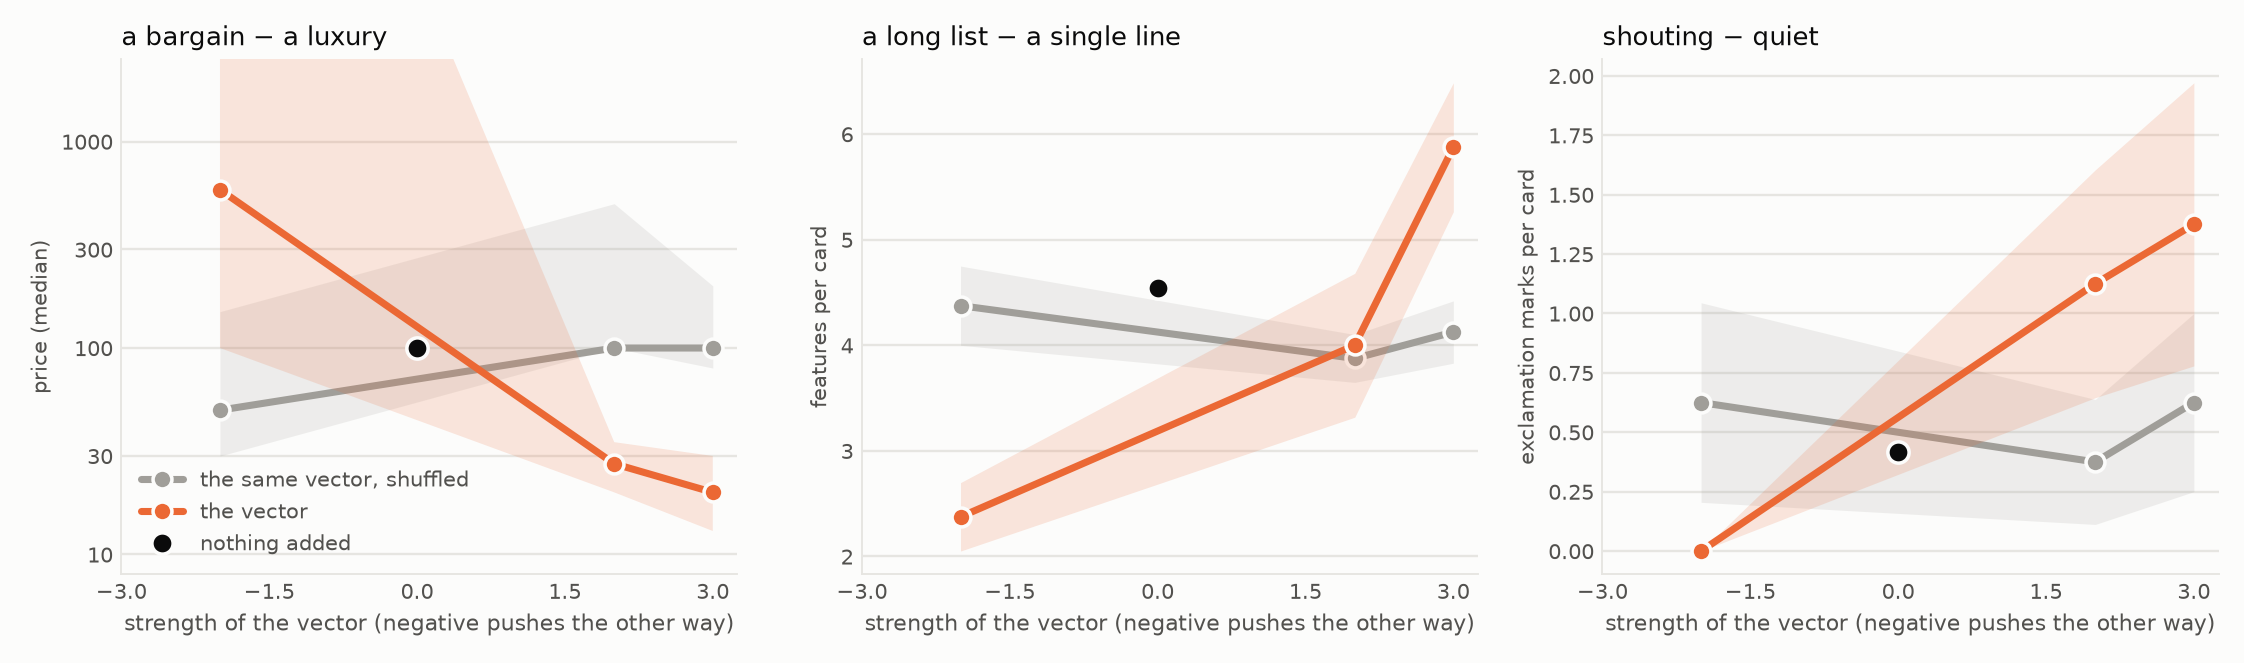
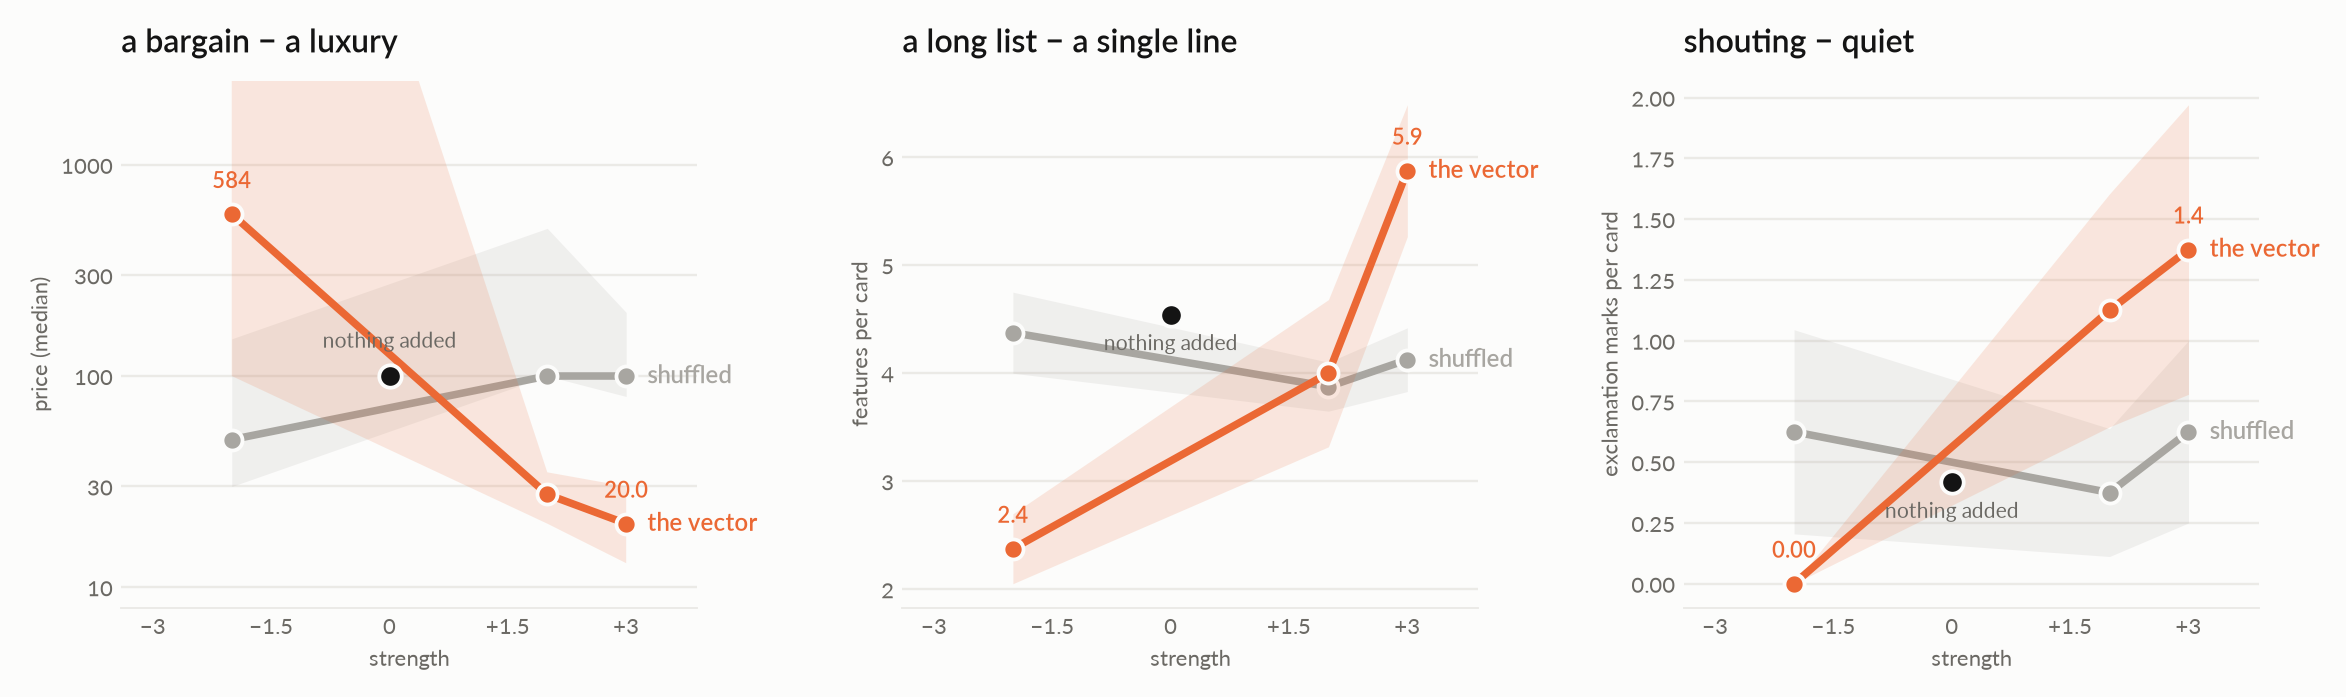
one style for the curves: Lato, names at the line ends, values at the edges

diff --git a/fig/style.py b/fig/style.py
@@ -1,0 +1,113 @@
+"""One look for the curve plots: Lato, a warm surface, the vector in orange
+with a soft band, the shuffled vector in grey, the unsteered point in ink,
+names at the ends of the lines instead of a legend.
+
+    from style import fonts, curves
+"""
+import statistics
+
+import matplotlib.pyplot as plt
+from matplotlib import font_manager
+
+VEC, ROTC, INK, INK2, GRID, SURF = "#eb6834", "#a8a6a1", "#141414", "#6b6964", "#ebeae6", "#fcfcfb"
+LATO = "/usr/share/fonts/truetype/lato/Lato-{}.ttf"
+
+
+def fonts(size=10.5):
+    for w in ("Regular", "Medium", "Semibold", "Bold", "Italic"):
+        try:
+            font_manager.fontManager.addfont(LATO.format(w))
+        except Exception:      # noqa: BLE001 - a missing weight is not a reason to stop
+            pass
+    plt.rcParams.update({"font.family": "Lato", "font.size": size, "axes.unicode_minus": True})
+
+
+def mean_se(v):
+    m = sum(v) / len(v)
+    sd = (sum((x - m) ** 2 for x in v) / max(1, len(v) - 1)) ** 0.5
+    se = sd / len(v) ** 0.5
+    return m, se, se
+
+
+def median_iqr(v):
+    m = statistics.median(v)
+    s = sorted(v)
+    lo, hi = s[len(s) // 4], s[(3 * len(s)) // 4]
+    return m, m - lo, hi - m
+
+
+def _fmt(y):
+    return f"{y:.0f}" if abs(y) >= 20 else (f"{y:.1f}" if abs(y) >= 1 else f"{y:.2f}")
+
+
+def curves(ax, pts, title, ylabel, centre=mean_se, log=False, ylim=None, yticks=None, values=True):
+    """pts: {"real": {x: [v]}, "placebo": {x: [v]}, "base": {0.0: [v]}}."""
+    ends = []
+    for kind, color, label, z in (("placebo", ROTC, "shuffled", 2), ("real", VEC, "the vector", 3)):
+        xs = sorted(pts[kind])
+        if not xs:
+            continue
+        cs = [centre(pts[kind][x]) for x in xs]
+        ys = [m for m, _, _ in cs]
+        ax.fill_between(xs, [m - lo for m, lo, _ in cs], [m + hi for m, _, hi in cs], color=color, alpha=0.15,
+                        linewidth=0, zorder=z)
+        ax.plot(xs, ys, color=color, linewidth=3.2, marker="o", markersize=8.5, markeredgecolor=SURF,
+                markeredgewidth=1.6, zorder=z + 1, solid_capstyle="round", solid_joinstyle="round")
+        ends.append((xs[-1], ys[-1], label, color, kind))
+        if values and kind == "real":
+            for x, y in ((xs[0], ys[0]), (xs[-1], ys[-1])):
+                ax.annotate(_fmt(y), (x, y), xytext=(0, 11), textcoords="offset points", ha="center",
+                            color=VEC, fontsize=9.5, fontweight="semibold", zorder=7)
+    if pts["base"]:
+        m, _, _ = centre(pts["base"][0.0])
+        ax.plot([0], [m], color=INK, marker="o", markersize=9.5, markeredgecolor=SURF, markeredgewidth=1.6,
+                linestyle="none", zorder=6)
+        # the label goes to whichever side of the dot has no line running through it
+        md = ax.transData.transform((0, m))[1]
+        crowd = {"up": 0, "down": 0}
+        for kind in ("real", "placebo"):
+            xs = sorted(pts[kind])
+            if len(xs) < 2 or not (xs[0] <= 0 <= xs[-1]):
+                continue
+            ys = [centre(pts[kind][x])[0] for x in xs]
+            i = max(j for j in range(len(xs) - 1) if xs[j] <= 0)
+            t = (0 - xs[i]) / (xs[i + 1] - xs[i]) if xs[i + 1] != xs[i] else 0
+            yd = ax.transData.transform((0, ys[i] + t * (ys[i + 1] - ys[i])))[1]
+            if 0 < yd - md < 26:
+                crowd["up"] += 1
+            elif 0 < md - yd < 26:
+                crowd["down"] += 1
+        dy = -15 if crowd["down"] <= crowd["up"] else 12
+        ax.annotate("nothing added", (0, m), xytext=(0, dy), textcoords="offset points", ha="center",
+                    color=INK2, fontsize=9, zorder=7)
+    if log:
+        ax.set_yscale("log")
+        ax.minorticks_off()
+    if ylim:
+        ax.set_ylim(*ylim)
+    if yticks:
+        ax.set_yticks(yticks, [str(t) for t in yticks])
+    # names at the right end of each line, pushed apart if they would touch
+    ax.set_xlim(-3.4, 3.9)
+    ends.sort(key=lambda e: e[1])
+    ys_disp = []
+    for x, y, label, color, kind in ends:
+        ys_disp.append(ax.transData.transform((x, y))[1])
+    for i in range(1, len(ys_disp)):
+        if ys_disp[i] - ys_disp[i - 1] < 16:
+            ys_disp[i] = ys_disp[i - 1] + 16
+    for (x, y, label, color, kind), yd in zip(ends, ys_disp):
+        yy = ax.transData.inverted().transform((0, yd))[1]
+        ax.annotate(label, (x, yy), xytext=(9, 0), textcoords="offset points", va="center", ha="left",
+                    color=color, fontsize=10, fontweight="semibold", zorder=8, annotation_clip=False)
+    ax.set_title(title, loc="left", color=INK, fontsize=13.5, fontweight="semibold", pad=12)
+    ax.set_ylabel(ylabel, color=INK2, fontsize=9.5)
+    ax.set_xlabel("strength", color=INK2, fontsize=9.5)
+    ax.set_xticks([-3, -1.5, 0, 1.5, 3], ["−3", "−1.5", "0", "+1.5", "+3"])
+    ax.grid(axis="y", color=GRID, linewidth=1)
+    ax.set_axisbelow(True)
+    for s in ("top", "right", "left"):
+        ax.spines[s].set_visible(False)
+    ax.spines["bottom"].set_color(GRID)
+    ax.tick_params(length=0, colors=INK2, labelsize=9.5)
+    ax.set_facecolor(SURF)

diff --git a/fig/plot_cardof.py b/fig/plot_cardof.py
@@ -10,19 +10,17 @@ median (one card at thirty million would own the mean).
 import glob
 import json
 import pathlib
-import statistics
 import sys
 
 import matplotlib
 matplotlib.use("Agg")
 import matplotlib.pyplot as plt  # noqa: E402
-from matplotlib import font_manager  # noqa: E402
 
 HERE = pathlib.Path(__file__).parent.parent
 sys.path.insert(0, str(HERE))
+sys.path.insert(0, str(HERE / "fig"))
+from style import SURF, curves, fonts, mean_se, median_iqr  # noqa: E402
 from steeropathy import cardof, replyof  # noqa: E402
-
-VEC, ROTC, INK, INK2, GRID, SURF = "#eb6834", "#a09e99", "#0b0b0b", "#52514e", "#e6e5e1", "#fcfcfb"
 PANELS = [  # direction, reading, panel label, y label, median?
     ("cheaper", "price", "a bargain − a luxury", "price (median)", True),
     ("manyfeatures", "features", "a long list − a single line", "features per card", False),
@@ -61,49 +59,11 @@ def series(files, name, what, key="card", read=cardof.read):
     return pts
 
 
-def centre(v, median):
-    if median:
-        m = statistics.median(v)
-        s = sorted(v)
-        lo, hi = s[len(s) // 4], s[(3 * len(s)) // 4]     # the middle half
-        return m, m - lo, hi - m
-    m = sum(v) / len(v)
-    sd = (sum((x - m) ** 2 for x in v) / max(1, len(v) - 1)) ** 0.5
-    se = sd / len(v) ** 0.5
-    return m, se, se
-
-
 def panel(ax, pts, label, ylabel, median):
-    for kind, color, lab, z in (("placebo", ROTC, "the same vector, shuffled", 2), ("real", VEC, "the vector", 3)):
-        xs = sorted(pts[kind])
-        if not xs:
-            continue
-        cs = [centre(pts[kind][x], median) for x in xs]
-        ax.fill_between(xs, [m - lo for m, lo, _ in cs], [m + hi for m, _, hi in cs], color=color, alpha=0.16,
-                        linewidth=0, zorder=z)
-        ax.plot(xs, [m for m, _, _ in cs], color=color, linewidth=3, marker="o", markersize=8,
-                markeredgecolor=SURF, markeredgewidth=1.5, label=lab, zorder=z + 1, solid_capstyle="round")
-    if pts["base"]:
-        m, _, _ = centre(pts["base"][0.0], median)
-        ax.plot([0], [m], color=INK, marker="o", markersize=9, markeredgecolor=SURF, markeredgewidth=1.5,
-                linestyle="none", label="nothing added", zorder=6)
     if median:
-        ax.set_yscale("log")
-        ax.set_ylim(8, 2500)     # the middle half of the cards; one card at −2 asks thirty million
-        ax.set_yticks([10, 30, 100, 300, 1000], ["10", "30", "100", "300", "1000"])
-        ax.minorticks_off()
-    ax.set_title(label, loc="left", color=INK, fontsize=11)
-    ax.set_ylabel(ylabel, color=INK2, fontsize=9)
-    ax.set_xlabel("strength of the vector (negative pushes the other way)", color=INK2, fontsize=9.5)
-    ax.set_xticks([-3, -1.5, 0, 1.5, 3])
-    ax.grid(axis="y", color=GRID, linewidth=1)
-    ax.set_axisbelow(True)
-    for s in ("top", "right"):
-        ax.spines[s].set_visible(False)
-    for s in ("left", "bottom"):
-        ax.spines[s].set_color(GRID)
-    ax.tick_params(length=0, colors=INK2, labelsize=9)
-    ax.set_facecolor(SURF)
+        curves(ax, pts, label, ylabel, centre=median_iqr, log=True, ylim=(8, 2500), yticks=[10, 30, 100, 300, 1000])
+    else:
+        curves(ax, pts, label, ylabel, centre=mean_se)
 
 
 def main():
@@ -115,20 +75,18 @@ def main():
     ap.add_argument("--out", default=None)
     a = ap.parse_args()
     bench = BENCH[a.bench]
-    font_manager.fontManager.addfont("/usr/share/fonts/truetype/dejavu/DejaVuSans.ttf")
-    plt.rcParams.update({"font.family": "DejaVu Sans", "font.size": 10})
+    fonts()
     files = sorted(glob.glob(str(HERE / "docs" / "runs" / (a.glob or bench["glob"]))))
     live = bench["panels"] if not a.only else [p for p in bench["panels"] if p[0] in a.only.split(",")]
     cols = min(3, len(live)) or 1
     rows = (len(live) + cols - 1) // cols
-    fig, axes = plt.subplots(rows, cols, figsize=(4.4 * cols, 3.9 * rows), facecolor=SURF)
+    fig, axes = plt.subplots(rows, cols, figsize=(4.6 * cols, 4.1 * rows), facecolor=SURF)
     axes = list(axes.flat) if hasattr(axes, "flat") else [axes]
     for ax, (name, what, label, ylabel, median) in zip(axes, live):
         panel(ax, series(files, name, what, bench["key"], bench["read"]), label, ylabel, median)
     for ax in axes[len(live):]:
         ax.axis("off")
-    axes[0].legend(loc="best", frameon=False, fontsize=9, labelcolor=INK2)
-    fig.tight_layout(h_pad=1.5, w_pad=1.5)
+    fig.tight_layout(h_pad=1.6, w_pad=2.4)
     out = pathlib.Path(a.out) if a.out else HERE / "docs" / bench["out"]
     fig.savefig(out, dpi=170, facecolor=SURF)
     print(out)

diff --git a/fig/plot_sliders.py b/fig/plot_sliders.py
@@ -13,14 +13,14 @@ import sys
 import matplotlib
 matplotlib.use("Agg")
 import matplotlib.pyplot as plt  # noqa: E402
-from matplotlib import font_manager  # noqa: E402
 
 HERE = pathlib.Path(__file__).parent.parent
 sys.path.insert(0, str(HERE))
+sys.path.insert(0, str(HERE / "fig"))
+from style import SURF, curves, fonts  # noqa: E402
 from steeropathy.secondhand import kinds_of  # noqa: E402
 from steeropathy.worldof import READERS  # noqa: E402
 
-VEC, ROTC, INK, INK2, GRID, SURF = "#eb6834", "#a09e99", "#0b0b0b", "#52514e", "#e6e5e1", "#fcfcfb"
 PANELS = [  # (glob, direction, kind or None, title, y label)
     ("worldof-13-aorus-1.5b-knob-s*.json", "manytrees", "tree", "many trees − one tree", "trees per world"),
     ("worldof-13-aorus-1.5b-knob-s*.json", "crowded", None, "crowded − empty", "things per world"),
@@ -62,36 +62,8 @@ def series(files, name, kind):
     return pts
 
 
-def mean_se(v):
-    m = sum(v) / len(v)
-    sd = (sum((x - m) ** 2 for x in v) / max(1, len(v) - 1)) ** 0.5
-    return m, sd / len(v) ** 0.5
-
-
 def panel(ax, pts, title, ylabel):
-    for kind, color, label, z in (("placebo", ROTC, "the same vector, shuffled", 2), ("real", VEC, "the vector", 3)):
-        xs = sorted(pts[kind])
-        if not xs:
-            continue
-        ms = [mean_se(pts[kind][x]) for x in xs]
-        ax.fill_between(xs, [m - s for m, s in ms], [m + s for m, s in ms], color=color, alpha=0.16, linewidth=0, zorder=z)
-        ax.plot(xs, [m for m, _ in ms], color=color, linewidth=3, marker="o", markersize=8,
-                markeredgecolor=SURF, markeredgewidth=1.5, label=label, zorder=z + 1, solid_capstyle="round")
-    if pts["base"]:
-        m, s = mean_se(pts["base"][0.0])
-        ax.plot([0], [m], color=INK, marker="o", markersize=9, markeredgecolor=SURF, markeredgewidth=1.5,
-                linestyle="none", label="nothing added", zorder=6)
-    ax.set_title(title, loc="left", color=INK, fontsize=11)
-    ax.set_ylabel(ylabel, color=INK2, fontsize=9)
-    ax.set_xticks([-3, -1.5, 0, 1.5, 3])
-    ax.grid(axis="y", color=GRID, linewidth=1)
-    ax.set_axisbelow(True)
-    for s in ("top", "right"):
-        ax.spines[s].set_visible(False)
-    for s in ("left", "bottom"):
-        ax.spines[s].set_color(GRID)
-    ax.tick_params(length=0, colors=INK2, labelsize=9)
-    ax.set_facecolor(SURF)
+    curves(ax, pts, title, ylabel)
 
 
 def main():
@@ -101,28 +73,21 @@ def main():
     ap.add_argument("--out", default=None)
     ap.add_argument("--title", default="The sliders")
     a = ap.parse_args()
-    font_manager.fontManager.addfont("/usr/share/fonts/truetype/dejavu/DejaVuSans.ttf")
-    plt.rcParams.update({"font.family": "DejaVu Sans", "font.size": 11 if a.only else 10})
+    fonts()
     live = [(g, n, k, t, y) for g, n, k, t, y in PANELS if glob.glob(str(HERE / "docs" / "runs" / g))]
     if a.only:
         keep = a.only.split(",")
         live = [x for x in live if x[1] in keep]
     cols = min(3, len(live)) or 1
     rows = (len(live) + cols - 1) // cols
-    size = (7.5, 4.6) if len(live) == 1 else ((12.5, 4.6) if len(live) == 2 else (4.2 * cols, 3.4 * rows + 0.3))
+    size = (7.5, 4.8) if len(live) == 1 else ((12.5, 4.8) if len(live) == 2 else (4.6 * cols, 3.9 * rows + 0.3))
     fig, axes = plt.subplots(rows, cols, figsize=size, facecolor=SURF)
     axes = list(axes.flat) if hasattr(axes, "flat") else [axes]
     for ax, (g, n, k, t, y) in zip(axes, live):
         panel(ax, series(sorted(glob.glob(str(HERE / "docs" / "runs" / g))), n, k), t, y)
     for ax in axes[len(live):]:
         ax.axis("off")
-    if len(live) > 2:
-        axes[0].legend(loc="upper left", frameon=False, fontsize=8.5, labelcolor=INK2)
-    for ax in axes[:len(live)]:
-        ax.set_xlabel("strength of the vector (negative pushes the other way)", color=INK2, fontsize=9.5)
-    if len(live) <= 3:
-        axes[0].legend(loc="best", frameon=False, fontsize=9.5, labelcolor=INK2)
-    fig.tight_layout(h_pad=1.2)
+    fig.tight_layout(h_pad=1.6, w_pad=2.4)
     out = pathlib.Path(a.out) if a.out else HERE / "docs" / "worldof-sliders.png"
     fig.savefig(out, dpi=170, facecolor=SURF)
     print(out)

diff --git a/fig/render_replyof.py b/fig/render_replyof.py
@@ -14,8 +14,8 @@ import tempfile
 from PIL import Image, ImageDraw, ImageFont
 
 HERE = pathlib.Path(__file__).parent.parent
-FONT = "/usr/share/fonts/truetype/dejavu/DejaVuSans.ttf"
-FONT_B = "/usr/share/fonts/truetype/dejavu/DejaVuSans-Bold.ttf"
+FONT = "/usr/share/fonts/truetype/lato/Lato-Regular.ttf"
+FONT_B = "/usr/share/fonts/truetype/lato/Lato-Semibold.ttf"
 SURF, INK, INK2 = (252, 252, 251), (11, 11, 11), (82, 81, 78)
 CW, CH, PAD = 460, 420, 14
 
@@ -27,7 +27,7 @@ def reply_html(r, user):
     urg = r.get("urgency")
     urg = "" if urg is None or urg != urg else f"<span class='urg u{int(round(urg))}'>urgency {int(round(urg))}</span>"
     return f"""<!doctype html><meta charset="utf-8"><style>
-    body{{margin:0;background:#f3f3f1;font-family:'DejaVu Sans',sans-serif;font-size:13px;color:#111}}
+    body{{margin:0;background:#f3f3f1;font-family:Lato,'DejaVu Sans',sans-serif;font-size:13px;color:#111}}
     .wrap{{width:{CW - 32}px;height:{CH - 32}px;margin:16px;box-sizing:border-box;overflow:hidden}}
     .user{{background:#dfe7ff;border-radius:14px 14px 2px 14px;padding:8px 12px;margin:0 0 8px 80px;font-size:12px}}
     .bot{{background:#fff;border-radius:14px 14px 14px 2px;padding:10px 12px;margin-right:40px;box-shadow:0 1px 4px rgba(0,0,0,.08);position:relative}}

diff --git a/fig/render_cardof.py b/fig/render_cardof.py
@@ -14,8 +14,8 @@ import tempfile
 from PIL import Image, ImageDraw, ImageFont
 
 HERE = pathlib.Path(__file__).parent.parent
-FONT = "/usr/share/fonts/truetype/dejavu/DejaVuSans.ttf"
-FONT_B = "/usr/share/fonts/truetype/dejavu/DejaVuSans-Bold.ttf"
+FONT = "/usr/share/fonts/truetype/lato/Lato-Regular.ttf"
+FONT_B = "/usr/share/fonts/truetype/lato/Lato-Semibold.ttf"
 SURF, INK, INK2 = (252, 252, 251), (11, 11, 11), (82, 81, 78)
 CW, CH, PAD = 460, 360, 14
 
@@ -33,7 +33,7 @@ def card_html(c):
     price = c.get("price")
     price = "" if price is None or price != price else (f"{price:,.2f}".rstrip("0").rstrip(".") if price < 1000 else f"{price:,.0f}")
     return f"""<!doctype html><meta charset="utf-8"><style>
-    body{{margin:0;background:#fcfcfb;font-family:'DejaVu Sans',sans-serif}}
+    body{{margin:0;background:#fcfcfb;font-family:Lato,'DejaVu Sans',sans-serif}}
     .card{{width:{CW - 40}px;height:{CH - 40}px;margin:20px;box-sizing:border-box;padding:22px 24px;border-radius:14px;
       background:{theme};color:{ink};box-shadow:0 2px 12px rgba(0,0,0,.12);display:flex;flex-direction:column;overflow:hidden}}
     h1{{margin:0;font-size:22px;line-height:1.15}} .tag{{margin:6px 0 10px;font-size:14px;opacity:.85}}

diff --git a/fig/plot_directions.py b/fig/plot_directions.py
@@ -14,7 +14,6 @@ import sys
 import matplotlib
 matplotlib.use("Agg")
 import matplotlib.pyplot as plt  # noqa: E402
-from matplotlib import font_manager  # noqa: E402
 from matplotlib.colors import LinearSegmentedColormap  # noqa: E402
 
 HERE = pathlib.Path(__file__).parent.parent
@@ -73,8 +72,9 @@ def main():
               "cheaper": "cheap", "warmer": "warm", "later": "late", "night": "likes night", "trees": "likes trees",
               "rain": "likes rain", "snow": "likes snow", "sea": "likes sea"}
     M = [[cos(vecs[x], vecs[y]) for y in names] for x in names]
-    font_manager.fontManager.addfont("/usr/share/fonts/truetype/dejavu/DejaVuSans.ttf")
-    plt.rcParams.update({"font.family": "DejaVu Sans", "font.size": 10})
+    sys.path.insert(0, str(HERE / "fig"))
+    from style import fonts
+    fonts(10)
     n = len(names)
     fig, ax = plt.subplots(figsize=(0.46 * n + 2.6, 0.46 * n + 1.4), facecolor=SURF)
     im = ax.imshow(M, cmap=CMAP, vmin=-1, vmax=1)
